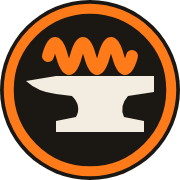
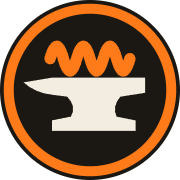
fix: assinatura Vibeforge só com o nome e emblema centrado no anel
- A linha "Produced by Bena" sai da assinatura do cabeçalho; fica o emblema e o nome VIBEFORGE, centrado na altura
- O emblema (bigorna e onda) passa a ser centrado pelo peso do desenho, não pela caixa: o chifre da bigorna pesa pouco e o conjunto ficava deslocado para a direita; a onda fica no eixo do anel
- Ícone da aba (SVG e PNG de 48 e 180 px) refeito com o mesmo ajuste
- Texto alternativo da imagem: "Vibeforge"
- Links do logo e dos ícones com versão, para o navegador buscar os arquivos novos

diff --git a/index.html b/index.html
@@ -1,4 +1,4 @@
-<!doctype html><html lang="pt-BR"><head><meta charset="utf-8"><meta name="viewport" content="width=device-width,initial-scale=1,viewport-fit=cover"><link rel="icon" href="favicon.png" sizes="48x48" type="image/png"><link rel="icon" href="favicon.svg" type="image/svg+xml"><link rel="apple-touch-icon" href="apple-touch-icon.png"><style>body{margin:0}img{max-width:100%}[hidden]{display:none!important}</style></head><body>
+<!doctype html><html lang="pt-BR"><head><meta charset="utf-8"><meta name="viewport" content="width=device-width,initial-scale=1,viewport-fit=cover"><link rel="icon" href="favicon.png?v=2" sizes="48x48" type="image/png"><link rel="icon" href="favicon.svg?v=2" type="image/svg+xml"><link rel="apple-touch-icon" href="apple-touch-icon.png?v=2"><style>body{margin:0}img{max-width:100%}[hidden]{display:none!important}</style></head><body>
 <title>Medivia Respawn</title>
 <link rel="preconnect" href="https://fonts.googleapis.com">
 <link rel="preconnect" href="https://fonts.gstatic.com" crossorigin>
@@ -614,7 +614,7 @@ svg.ico { flex: none; width: 18px; height: 18px; fill: none; stroke: currentColo
       <p data-i18n="tagline">Cronômetro de respawn para as suas caçadas no Medivia, com o grupo e o bônus já calculados.</p>
       <p class="nav-links"><a href="https://wiki.medivia.online/mapper/" target="_blank" rel="noopener" data-i18n="mapper">Mapper da wiki</a></p>
     </div>
-    <a class="maker" href="https://github.com/Benaa42" target="_blank" rel="noopener"><img src="vibeforge.svg" width="252" height="72" alt="Vibeforge, produzido por Bena" data-i18n-attr="alt:maker.alt"></a>
+    <a class="maker" href="https://github.com/Benaa42" target="_blank" rel="noopener"><img src="vibeforge.svg?v=2" width="288" height="72" alt="Vibeforge" data-i18n-attr="alt:maker.alt"></a>
   </header>
 
   <div class="toolbar">
@@ -917,7 +917,7 @@ const I18N = {
     'html.lang': 'pt-BR',
     'tagline': 'Cronômetro de respawn para as suas caçadas no Medivia, com o grupo e o bônus já calculados.',
     'mapper': 'Mapper da wiki',
-    'maker.alt': 'Vibeforge, produzido por Bena',
+    'maker.alt': 'Vibeforge',
     'lang.label': 'Idioma',
     'paste.a': 'Com o print da janela de bônus copiado, aperte',
     'paste.b': 'em qualquer lugar desta página. Ele é lido na hora, sem clicar em nada antes.',
@@ -1307,7 +1307,7 @@ const I18N = {
     'html.lang': 'en',
     'tagline': 'Respawn timer for your Medivia hunts, with party size and bonus already worked out.',
     'mapper': 'Wiki mapper',
-    'maker.alt': 'Vibeforge, produced by Bena',
+    'maker.alt': 'Vibeforge',
     'lang.label': 'Language',
     'paste.a': 'With the bonus window screenshot copied, press',
     'paste.b': 'anywhere on this page. It is read right away, with no need to click anything first.',
@@ -1697,7 +1697,7 @@ const I18N = {
     'html.lang': 'es',
     'tagline': 'Cronómetro de respawn para tus cacerías en Medivia, con el grupo y el bonus ya calculados.',
     'mapper': 'Mapper de la wiki',
-    'maker.alt': 'Vibeforge, producido por Bena',
+    'maker.alt': 'Vibeforge',
     'lang.label': 'Idioma',
     'paste.a': 'Con la captura de la ventana de bonus copiada, pulsa',
     'paste.b': 'en cualquier parte de esta página. Se lee al instante, sin hacer clic en nada antes.',
@@ -2087,7 +2087,7 @@ const I18N = {
     'html.lang': 'pl',
     'tagline': 'Licznik respawnu na twoje polowania w Medivii, z drużyną i bonusem już wliczonymi.',
     'mapper': 'Mapper z wiki',
-    'maker.alt': 'Vibeforge, autor: Bena',
+    'maker.alt': 'Vibeforge',
     'lang.label': 'Język',
     'paste.a': 'Po skopiowaniu zrzutu okna bonusu naciśnij',
     'paste.b': 'w dowolnym miejscu tej strony. Zrzut jest odczytywany od razu, bez klikania czegokolwiek wcześniej.',
@@ -4987,6 +4987,12 @@ if (support.pix || support.kofi) {
    O que mudou no site, da publicação mais recente para a mais antiga.
    A cada publicação, acrescente uma entrada no começo: data e hora (horário de Brasília) e os itens nos três idiomas. */
 const CHANGES = [
+  { at: '2026-10-10 22:39',
+    pt: ['Assinatura Vibeforge só com o nome, e o emblema da bigorna centrado no anel; o ícone da aba acompanha.'],
+    en: ['Vibeforge signature with the name only, and the anvil emblem centred in the ring; the tab icon follows.'],
+    es: ['Firma Vibeforge solo con el nombre, y el emblema del yunque centrado en el anillo; el icono de la pestaña lo acompaña.'],
+    pl: ['Podpis Vibeforge z samą nazwą, a emblemat kowadła wyśrodkowany w pierścieniu; ikona karty również.'],
+  },
   { at: '2026-10-10 22:33',
     pt: ['O resumo da última hunt voltou para a página do Cronômetro; o Analisador de hunt continua com a versão completa.', 'O botão Janela flutuante ganhou destaque.', 'Criaturas e Sorteio: a ficha da criatura e o sorteio abrem por cima da página, como janela.'],
     en: ['The last hunt summary is back on the Timer page; the Hunt analyzer keeps the full version.', 'The Floating window button now stands out.', 'Creatures and Raffle: the creature sheet and the raffle open on top of the page, as a window.'],

diff --git a/page.html b/page.html
@@ -613,7 +613,7 @@ svg.ico { flex: none; width: 18px; height: 18px; fill: none; stroke: currentColo
       <p data-i18n="tagline">Cronômetro de respawn para as suas caçadas no Medivia, com o grupo e o bônus já calculados.</p>
       <p class="nav-links"><a href="https://wiki.medivia.online/mapper/" target="_blank" rel="noopener" data-i18n="mapper">Mapper da wiki</a></p>
     </div>
-    <a class="maker" href="https://github.com/Benaa42" target="_blank" rel="noopener"><img src="vibeforge.svg" width="252" height="72" alt="Vibeforge, produzido por Bena" data-i18n-attr="alt:maker.alt"></a>
+    <a class="maker" href="https://github.com/Benaa42" target="_blank" rel="noopener"><img src="vibeforge.svg?v=2" width="288" height="72" alt="Vibeforge" data-i18n-attr="alt:maker.alt"></a>
   </header>
 
   <div class="toolbar">
@@ -916,7 +916,7 @@ const I18N = {
     'html.lang': 'pt-BR',
     'tagline': 'Cronômetro de respawn para as suas caçadas no Medivia, com o grupo e o bônus já calculados.',
     'mapper': 'Mapper da wiki',
-    'maker.alt': 'Vibeforge, produzido por Bena',
+    'maker.alt': 'Vibeforge',
     'lang.label': 'Idioma',
     'paste.a': 'Com o print da janela de bônus copiado, aperte',
     'paste.b': 'em qualquer lugar desta página. Ele é lido na hora, sem clicar em nada antes.',
@@ -1306,7 +1306,7 @@ const I18N = {
     'html.lang': 'en',
     'tagline': 'Respawn timer for your Medivia hunts, with party size and bonus already worked out.',
     'mapper': 'Wiki mapper',
-    'maker.alt': 'Vibeforge, produced by Bena',
+    'maker.alt': 'Vibeforge',
     'lang.label': 'Language',
     'paste.a': 'With the bonus window screenshot copied, press',
     'paste.b': 'anywhere on this page. It is read right away, with no need to click anything first.',
@@ -1696,7 +1696,7 @@ const I18N = {
     'html.lang': 'es',
     'tagline': 'Cronómetro de respawn para tus cacerías en Medivia, con el grupo y el bonus ya calculados.',
     'mapper': 'Mapper de la wiki',
-    'maker.alt': 'Vibeforge, producido por Bena',
+    'maker.alt': 'Vibeforge',
     'lang.label': 'Idioma',
     'paste.a': 'Con la captura de la ventana de bonus copiada, pulsa',
     'paste.b': 'en cualquier parte de esta página. Se lee al instante, sin hacer clic en nada antes.',
@@ -2086,7 +2086,7 @@ const I18N = {
     'html.lang': 'pl',
     'tagline': 'Licznik respawnu na twoje polowania w Medivii, z drużyną i bonusem już wliczonymi.',
     'mapper': 'Mapper z wiki',
-    'maker.alt': 'Vibeforge, autor: Bena',
+    'maker.alt': 'Vibeforge',
     'lang.label': 'Język',
     'paste.a': 'Po skopiowaniu zrzutu okna bonusu naciśnij',
     'paste.b': 'w dowolnym miejscu tej strony. Zrzut jest odczytywany od razu, bez klikania czegokolwiek wcześniej.',
@@ -4986,6 +4986,12 @@ if (support.pix || support.kofi) {
    O que mudou no site, da publicação mais recente para a mais antiga.
    A cada publicação, acrescente uma entrada no começo: data e hora (horário de Brasília) e os itens nos três idiomas. */
 const CHANGES = [
+  { at: '2026-10-10 22:39',
+    pt: ['Assinatura Vibeforge só com o nome, e o emblema da bigorna centrado no anel; o ícone da aba acompanha.'],
+    en: ['Vibeforge signature with the name only, and the anvil emblem centred in the ring; the tab icon follows.'],
+    es: ['Firma Vibeforge solo con el nombre, y el emblema del yunque centrado en el anillo; el icono de la pestaña lo acompaña.'],
+    pl: ['Podpis Vibeforge z samą nazwą, a emblemat kowadła wyśrodkowany w pierścieniu; ikona karty również.'],
+  },
   { at: '2026-10-10 22:33',
     pt: ['O resumo da última hunt voltou para a página do Cronômetro; o Analisador de hunt continua com a versão completa.', 'O botão Janela flutuante ganhou destaque.', 'Criaturas e Sorteio: a ficha da criatura e o sorteio abrem por cima da página, como janela.'],
     en: ['The last hunt summary is back on the Timer page; the Hunt analyzer keeps the full version.', 'The Floating window button now stands out.', 'Creatures and Raffle: the creature sheet and the raffle open on top of the page, as a window.'],
